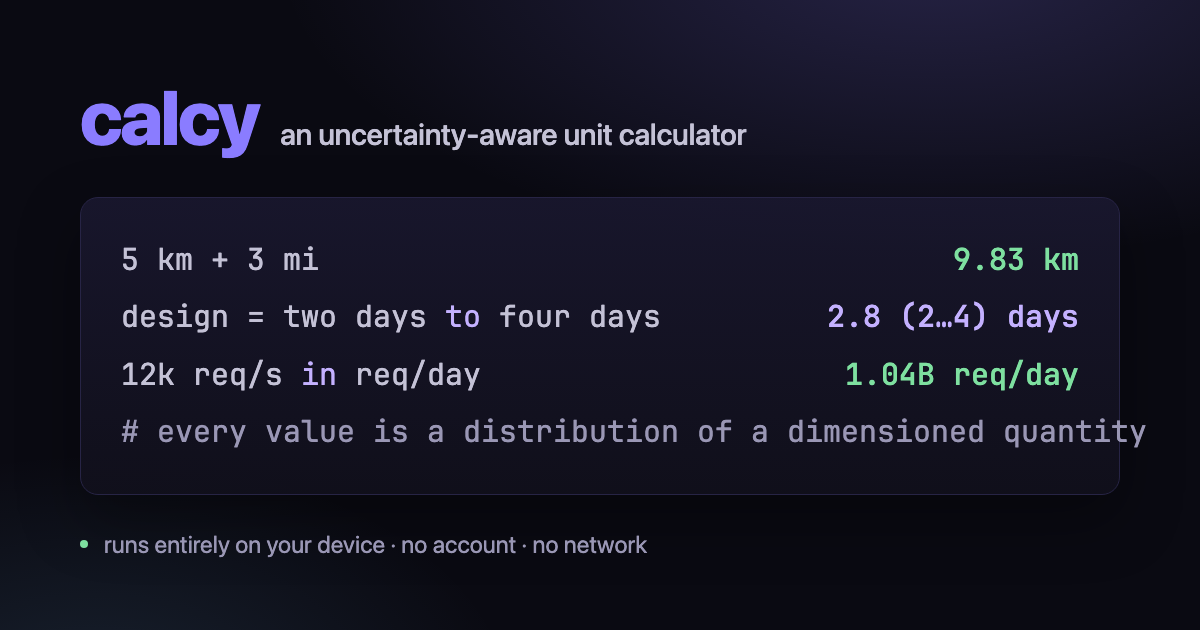
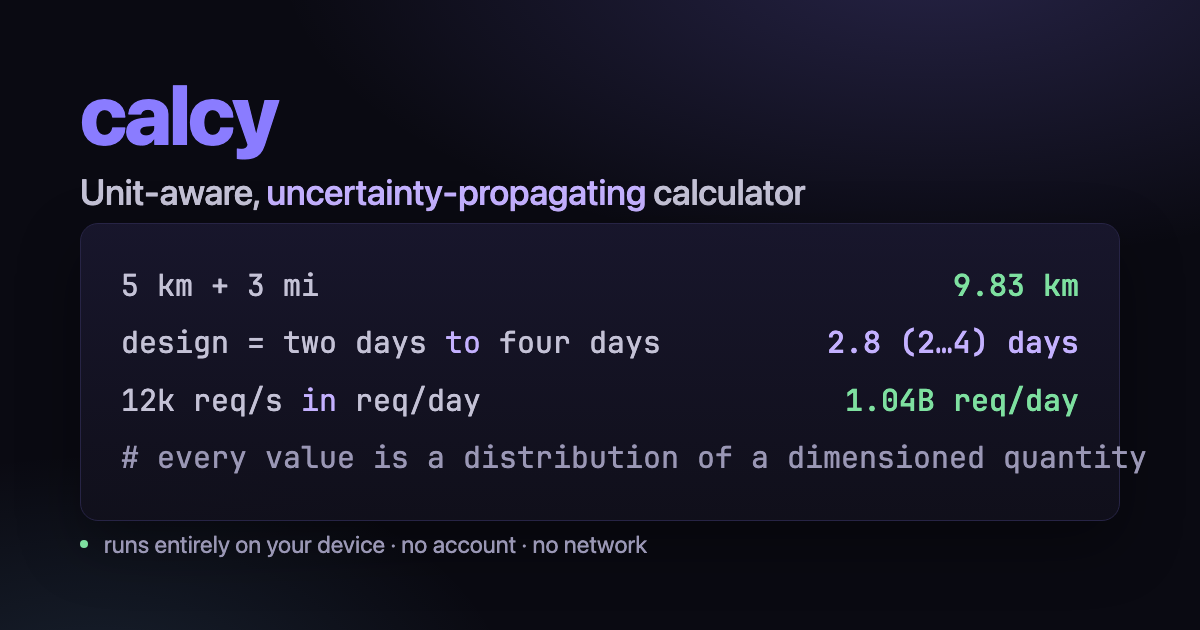
Reframe tagline and address UI review findings
Retags the brand line as "unit-aware, uncertainty-propagating calculator"
across the OG card, page title, meta/Open Graph/Twitter tags, README, and
the PWA manifest. The card stacks the tagline under the wordmark and
highlights "uncertainty-propagating".

UI review fixes:
- Empty result gutter now shows a hint instead of a bare strip (gated on
  whether any line has a real result, so comment/blank-only sheets get it).
- Wider default gutter (280->340) so typical ranges no longer clip.
- Settings strip regrouped into labelled sections with hairline dividers.
- Strip the share fragment via $app/navigation's replaceState instead of
  raw history.replaceState, which SvelteKit warns about.
- Suppress the histogram for a zero-spread (degenerate) distribution in
  both the gutter and the inspector, where it drew a misleading full bar.

Changed region(s): [[0.0925, 0.3921, 0.9558, 0.754], [0.0617, 0.1206, 0.6783, 0.3619]]

diff --git a/src/lib/components/SettingsPanel.svelte b/src/lib/components/SettingsPanel.svelte
@@ -28,23 +28,36 @@ function onImport(e: Event) {
 </script>
 
 <section class="panel settings" aria-label="settings">
-	<label>month = <input type="number" step="any" value={trim(c.monthDays)} onchange={(e) => { c.monthDays = +e.currentTarget.value; c.persistSetting('monthDays', String(c.monthDays)); }} /> day</label>
-	<label>year = <input type="number" step="any" value={trim(c.yearDays)} onchange={(e) => { c.yearDays = +e.currentTarget.value; c.persistSetting('yearDays', String(c.yearDays)); }} /> day</label>
-	<label>samples N = <input type="number" step="1000" bind:value={c.samples} onchange={() => c.persistSetting('samples', String(c.samples))} /></label>
-	<div class="fmt" role="group" aria-label="number format">
-		<span class="fmt-label">numbers</span>
-		{#each NUMBER_FORMATS as f (f.value)}
-			<button type="button" class:active={c.numberFormat === f.value} title={f.hint} onclick={() => c.setNumberFormat(f.value)}>{f.label}</button>
-		{/each}
+	<div class="grp">
+		<span class="grp-label">calendar</span>
+		<label>month <input type="number" step="any" value={trim(c.monthDays)} onchange={(e) => { c.monthDays = +e.currentTarget.value; c.persistSetting('monthDays', String(c.monthDays)); }} /> d</label>
+		<label>year <input type="number" step="any" value={trim(c.yearDays)} onchange={(e) => { c.yearDays = +e.currentTarget.value; c.persistSetting('yearDays', String(c.yearDays)); }} /> d</label>
 	</div>
-	<div class="ci" role="group" aria-label="confidence level">
-		<span class="fmt-label">CI</span>
+
+	<span class="divider" aria-hidden="true"></span>
+
+	<div class="grp" role="group" aria-label="sampling">
+		<span class="grp-label">sampling</span>
+		<label>N <input type="number" step="1000" bind:value={c.samples} onchange={() => c.persistSetting('samples', String(c.samples))} /></label>
+		<span class="sub">interval</span>
 		{#each [0.68, 0.9, 0.95, 0.99] as lv (lv)}
 			<button type="button" class:active={Math.abs(c.confidence - lv) < 1e-9} title={`'a to b' means ${(lv * 100).toFixed(0)}% CI`} onclick={() => c.setConfidence(lv)}>{(lv * 100).toFixed(0)}%</button>
 		{/each}
 	</div>
-	<div class="data-actions" role="group" aria-label="export and import">
-		<span class="fmt-label">export</span>
+
+	<span class="divider" aria-hidden="true"></span>
+
+	<div class="grp" role="group" aria-label="number format">
+		<span class="grp-label">numbers</span>
+		{#each NUMBER_FORMATS as f (f.value)}
+			<button type="button" class:active={c.numberFormat === f.value} title={f.hint} onclick={() => c.setNumberFormat(f.value)}>{f.label}</button>
+		{/each}
+	</div>
+
+	<span class="divider" aria-hidden="true"></span>
+
+	<div class="grp" role="group" aria-label="export and import">
+		<span class="grp-label">data</span>
 		<button type="button" onclick={() => c.exportTxt()}>.txt</button>
 		<button type="button" onclick={() => c.exportMd()}>.md</button>
 		<button type="button" onclick={() => c.exportCsv()}>.csv</button>
@@ -52,8 +65,11 @@ function onImport(e: Event) {
 		<button type="button" onclick={() => importInput?.click()}>Import .sqlite</button>
 		<input bind:this={importInput} type="file" accept=".sqlite" onchange={onImport} hidden />
 	</div>
-	<div class="units" role="group" aria-label="custom units">
-		<span class="fmt-label">custom units</span>
+
+	<span class="divider" aria-hidden="true"></span>
+
+	<div class="grp units" role="group" aria-label="custom units">
+		<span class="grp-label">units</span>
 		{#each Object.entries(c.customUnits) as [name, def] (name)}
 			<span class="chip" title={def}>{name}<button type="button" aria-label="remove {name}" onclick={() => c.removeCustomUnit(name)}>✕</button></span>
 		{/each}
@@ -66,11 +82,18 @@ function onImport(e: Event) {
 		<button type="button" onclick={() => c.applyCustomUnit()}>Add</button>
 		{#if c.unitError}<span class="unit-err">{c.unitError}</span>{/if}
 	</div>
-	<label class="debug-toggle">
-		<input type="checkbox" checked={c.debugAst} onchange={() => c.toggleDebug()} />
-		show parsed AST in result gutter <span class="kbd-inline">⌘D</span>
-	</label>
-	<span class="muted">seed {c.seedHex} · CI = {(c.confidence * 100).toFixed(0)}% · all compute is local</span>
+
+	<span class="divider" aria-hidden="true"></span>
+
+	<div class="grp">
+		<span class="grp-label">view</span>
+		<label class="debug-toggle">
+			<input type="checkbox" checked={c.debugAst} onchange={() => c.toggleDebug()} />
+			parsed AST in gutter <span class="kbd-inline">⌘D</span>
+		</label>
+	</div>
+
+	<span class="muted">seed {c.seedHex} · all compute is local</span>
 </section>
 
 <style>
@@ -79,7 +102,7 @@ function onImport(e: Event) {
 		background: var(--surface-1);
 		padding: 0.6rem 0.9rem;
 		display: flex;
-		gap: 1rem;
+		gap: 0.65rem;
 		flex-wrap: wrap;
 		align-items: center;
 	}
@@ -95,21 +118,33 @@ function onImport(e: Event) {
 		border-radius: 6px;
 		padding: 0.2rem 0.4rem;
 	}
-	.fmt,
-	.ci,
-	.data-actions {
+	/* Each setting cluster is a labelled group; thin dividers separate them so
+	   the strip scans as sections rather than one long flat row. */
+	.grp {
 		display: flex;
 		align-items: center;
 		gap: 0.3rem;
+		flex-wrap: wrap;
 	}
-	.fmt-label {
-		font-size: 0.85rem;
-		color: var(--text-2);
-		margin-right: 0.1rem;
+	.grp-label {
+		font-size: 0.66rem;
+		text-transform: uppercase;
+		letter-spacing: 0.07em;
+		color: var(--text-muted);
+		margin-right: 0.15rem;
 	}
-	.fmt button,
-	.ci button,
-	.data-actions button {
+	.sub {
+		font-size: 0.78rem;
+		color: var(--text-muted);
+		margin-left: 0.35rem;
+	}
+	.divider {
+		align-self: stretch;
+		width: 1px;
+		min-height: 1.3rem;
+		background: var(--border);
+	}
+	.grp > button {
 		background: var(--surface-2);
 		border: 1px solid var(--border-strong);
 		color: var(--text-2);
@@ -119,13 +154,10 @@ function onImport(e: Event) {
 		font-size: 0.8rem;
 		font-family: var(--font-mono);
 	}
-	.fmt button:hover,
-	.ci button:hover,
-	.data-actions button:hover {
+	.grp > button:hover {
 		border-color: var(--color-brand);
 	}
-	.fmt button.active,
-	.ci button.active {
+	.grp > button.active {
 		background: var(--color-brand);
 		color: var(--text);
 		border-color: var(--color-brand);
@@ -155,12 +187,6 @@ function onImport(e: Event) {
 		color: var(--text-2);
 		margin-left: 0.3rem;
 	}
-	.units {
-		display: flex;
-		align-items: center;
-		gap: 0.3rem;
-		flex-wrap: wrap;
-	}
 	.unit-input {
 		width: 11rem;
 		background: var(--surface-2);
@@ -169,15 +195,6 @@ function onImport(e: Event) {
 		border-radius: 6px;
 		padding: 0.2rem 0.4rem;
 		font-family: var(--font-mono);
-		font-size: 0.8rem;
-	}
-	.units button {
-		background: var(--surface-2);
-		border: 1px solid var(--border-strong);
-		color: var(--text-2);
-		padding: 0.2rem 0.5rem;
-		border-radius: 6px;
-		cursor: pointer;
 		font-size: 0.8rem;
 	}
 	.chip {

diff --git a/src/lib/components/Gutter.svelte b/src/lib/components/Gutter.svelte
@@ -27,9 +27,18 @@ let {
 	showAst?: boolean;
 } = $props();
 
-const isEmpty = $derived(lines.length === 0);
+// "Has anything to show" — a sheet that's empty or only comments/blank lines
+// produces blank rows that render as a bare strip, so we show a hint instead.
+const hasResult = $derived(
+	lines.some((l) => !!l.error || l.kind === 'value' || l.kind === 'unitdef')
+);
+// Only sparkline a distribution that actually has spread. A degenerate one
+// (e.g. x − x, where correlation-by-reuse cancels to an exact value) collapses
+// to a single full-height bar that reads like a rendering glitch, not a shape.
 const distHist = (l: LineResult) =>
-	l.isDist && l.summary?.kind === 'dist' ? l.summary.hist : null;
+	l.isDist && l.summary?.kind === 'dist' && l.summary.min !== l.summary.max
+		? l.summary.hist
+		: null;
 const lineAst = (l: LineResult) => (showAst && l.ast ? astText(l.ast) : '');
 
 // Track which row was just copied (for the brief "✓" feedback). Cleared
@@ -53,8 +62,9 @@ export function setScrollTop(top: number) {
 }
 </script>
 
-<div class="gutter" bind:this={scrollEl} aria-hidden={isEmpty}>
-	{#each lines as l (l.index)}
+<div class="gutter" bind:this={scrollEl} aria-hidden={!hasResult}>
+	{#if hasResult}
+		{#each lines as l (l.index)}
 		<div
 			class="row"
 			class:err={!!l.error}
@@ -105,9 +115,13 @@ export function setScrollTop(top: number) {
 				<span class="ast" aria-label="parsed AST">{lineAst(l)}</span>
 			{/if}
 		</div>
+		{/each}
 	{:else}
-		<div class="empty">no lines yet</div>
-	{/each}
+		<div class="empty">
+			<p class="empty-title">Results appear here</p>
+			<p class="empty-sub">Type math on the left—each line's answer lands on this row.</p>
+		</div>
+	{/if}
 </div>
 
 <style>
@@ -241,8 +255,20 @@ export function setScrollTop(top: number) {
 		border-color: var(--color-brand);
 	}
 	.empty {
-		color: var(--text-faint);
+		margin: auto;
 		text-align: center;
 		padding: 1rem;
+		max-width: 22ch;
+	}
+	.empty-title {
+		margin: 0 0 0.35rem;
+		color: var(--text-muted);
+		font-size: 0.92rem;
+	}
+	.empty-sub {
+		margin: 0;
+		color: var(--text-faint);
+		font-size: 0.8rem;
+		line-height: 1.45;
 	}
 </style>

diff --git a/src/app.html b/src/app.html
@@ -12,19 +12,19 @@
 		     The runtime <svelte:head> in +page.svelte still overrides <title> with
 		     the active sheet name once JS runs. Image URLs must be absolute, so
 		     they're pinned to the production origin. -->
-		<title>calcy — an uncertainty-aware unit calculator</title>
+		<title>calcy — unit-aware, uncertainty-propagating calculator</title>
 		<meta
 			name="description"
-			content="A unit-aware, uncertainty-aware notepad calculator. Every value is a distribution of a dimensioned quantity — runs entirely on your device, no account, no network."
+			content="A unit-aware, uncertainty-propagating notepad calculator. Every value is a distribution of a dimensioned quantity, so ranges propagate through every operation — runs entirely on your device, no account, no network."
 		/>
 		<link rel="canonical" href="https://npalladium.github.io/calcy/" />
 
 		<meta property="og:type" content="website" />
 		<meta property="og:site_name" content="calcy" />
-		<meta property="og:title" content="calcy — an uncertainty-aware unit calculator" />
+		<meta property="og:title" content="calcy — unit-aware, uncertainty-propagating calculator" />
 		<meta
 			property="og:description"
-			content="Unit-aware math, uncertainty ranges, and rate reasoning in one offline notepad. Every value is a distribution of a dimensioned quantity."
+			content="Unit-aware math where uncertainty propagates through every operation. Every value is a distribution of a dimensioned quantity, in one offline notepad."
 		/>
 		<meta property="og:url" content="https://npalladium.github.io/calcy/" />
 		<meta property="og:image" content="https://npalladium.github.io/calcy/og.png" />
@@ -33,10 +33,10 @@
 		<meta property="og:image:alt" content="calcy: sample calculations showing unit math, an uncertain range, and a rate conversion." />
 
 		<meta name="twitter:card" content="summary_large_image" />
-		<meta name="twitter:title" content="calcy — an uncertainty-aware unit calculator" />
+		<meta name="twitter:title" content="calcy — unit-aware, uncertainty-propagating calculator" />
 		<meta
 			name="twitter:description"
-			content="Unit-aware math, uncertainty ranges, and rate reasoning in one offline notepad."
+			content="Unit-aware math where uncertainty propagates through every operation, in one offline notepad."
 		/>
 		<meta name="twitter:image" content="https://npalladium.github.io/calcy/og.png" />
 

diff --git a/e2e/screenshots/og-card.spec.ts b/e2e/screenshots/og-card.spec.ts
@@ -31,9 +31,10 @@ const CARD = `<!doctype html><html><head><meta charset="utf-8" /><style>
     display: flex; flex-direction: column; justify-content: space-between;
     padding: 72px 80px;
   }
-  .top { display: flex; align-items: baseline; gap: 22px; }
-  .wordmark { font-size: 76px; font-weight: 800; letter-spacing: -0.03em; color: var(--violet); }
-  .tagline { font-size: 30px; font-weight: 500; color: var(--text-2); letter-spacing: -0.01em; }
+  .top { display: flex; flex-direction: column; gap: 14px; }
+  .wordmark { font-size: 84px; font-weight: 800; letter-spacing: -0.03em; color: var(--violet); line-height: 1; }
+  .tagline { font-size: 36px; font-weight: 500; color: var(--text-2); letter-spacing: -0.01em; }
+  .tagline .hl { color: var(--violet-soft); }
   .panel {
     background: linear-gradient(180deg, rgba(26,24,48,0.85), rgba(17,16,28,0.85));
     border: 1px solid var(--ink-3); border-radius: 18px;
@@ -55,7 +56,7 @@ const CARD = `<!doctype html><html><head><meta charset="utf-8" /><style>
   <div class="card">
     <div class="top">
       <div class="wordmark">calcy</div>
-      <div class="tagline">an uncertainty-aware unit calculator</div>
+      <div class="tagline">Unit-aware, <span class="hl">uncertainty-propagating</span> calculator</div>
     </div>
     <div class="panel">
       <div class="row"><span class="src">5 km + 3 mi</span><span class="res green">9.83 km</span></div>

diff --git a/src/lib/state/sheet.svelte.ts b/src/lib/state/sheet.svelte.ts
@@ -10,6 +10,7 @@
 // the component lifecycle), then call `boot()` from onMount to spin up the
 // workers and load persisted state.
 
+import { replaceState } from '$app/navigation';
 import { DbClient, type RevisionItem, type SheetListItem } from '$lib/db/client';
 import { setLineConversion } from '$lib/editor';
 import type { LineResult, NumberFormat, RatePeriod } from '$lib/engine';
@@ -42,7 +43,7 @@ const MIN_LAYOUT_EDITOR = 240;
 const MIN_LAYOUT_GUTTER = 160;
 const MIN_LAYOUT_INSPECTOR = 280;
 const DEFAULT_LAYOUT_EDITOR = 420;
-const DEFAULT_LAYOUT_GUTTER = 280;
+const DEFAULT_LAYOUT_GUTTER = 340;
 const DEFAULT_LAYOUT_INSPECTOR = 360;
 
 export class SheetController {
@@ -70,7 +71,7 @@ export class SheetController {
 	// ~1024px viewport with the inspector still readable; the page clamps
 	// during drag so they always sum to fit the window.
 	editorWidth = $state(420);
-	gutterWidth = $state(280);
+	gutterWidth = $state(340);
 	inspectorWidth = $state(360);
 	// Collapse flags for each column. A collapsed column renders at 0 width;
 	// its splitter chevron flips to point outward and dragging it re-expands
@@ -193,7 +194,9 @@ export class SheetController {
 			this.body = shared.body;
 			this.seed = shared.seed;
 			await this.db.save({ id: this.sheetId, title: this.title, body: this.body, seed: this.seed });
-			history.replaceState(null, '', location.pathname + location.search);
+			// Strip the share fragment via SvelteKit's router-aware replaceState so we
+			// don't fight its history management (a raw history.replaceState warns).
+			replaceState(location.pathname + location.search, {});
 		} else {
 			const last = await this.db.loadLast();
 			if (last) this.adopt(last);

diff --git a/src/lib/components/DistributionPanel.svelte b/src/lib/components/DistributionPanel.svelte
@@ -30,7 +30,11 @@ const stat = (label: string) => stats.find((s) => s.label === label)?.value;
 				Always <strong>{line.display?.text}</strong>—no variation.
 			</p>
 		{/if}
-		<Sparkline hist={dist.hist} width={280} height={64} />
+		<!-- Skip the histogram when there's no spread: a degenerate distribution is
+		     a single full-height bar that reads as a glitch rather than a shape. -->
+		{#if dist.min !== dist.max}
+			<Sparkline hist={dist.hist} width={280} height={64} />
+		{/if}
 		<details>
 			<summary>All statistics</summary>
 			<table>

diff --git a/vite.config.ts b/vite.config.ts
@@ -36,7 +36,7 @@ export default defineConfig({
 			manifest: {
 				name: 'Calcy',
 				short_name: 'Calcy',
-				description: 'Unit-aware, uncertainty-aware notepad calculator',
+				description: 'Unit-aware, uncertainty-propagating notepad calculator',
 				display: 'standalone',
 				theme_color: '#8100ff',
 				background_color: '#0b0b0f',

diff --git a/README.md b/README.md
@@ -1,4 +1,4 @@
-# calcy — an uncertainty-aware unit calculator
+# calcy — unit-aware, uncertainty-propagating calculator
 
 [![Live demo](https://img.shields.io/badge/demo-live-7c3aed?style=flat-square)](https://npalladium.github.io/calcy/)
 [![License](https://img.shields.io/badge/license-GPLv3-blue?style=flat-square)](LICENSE)